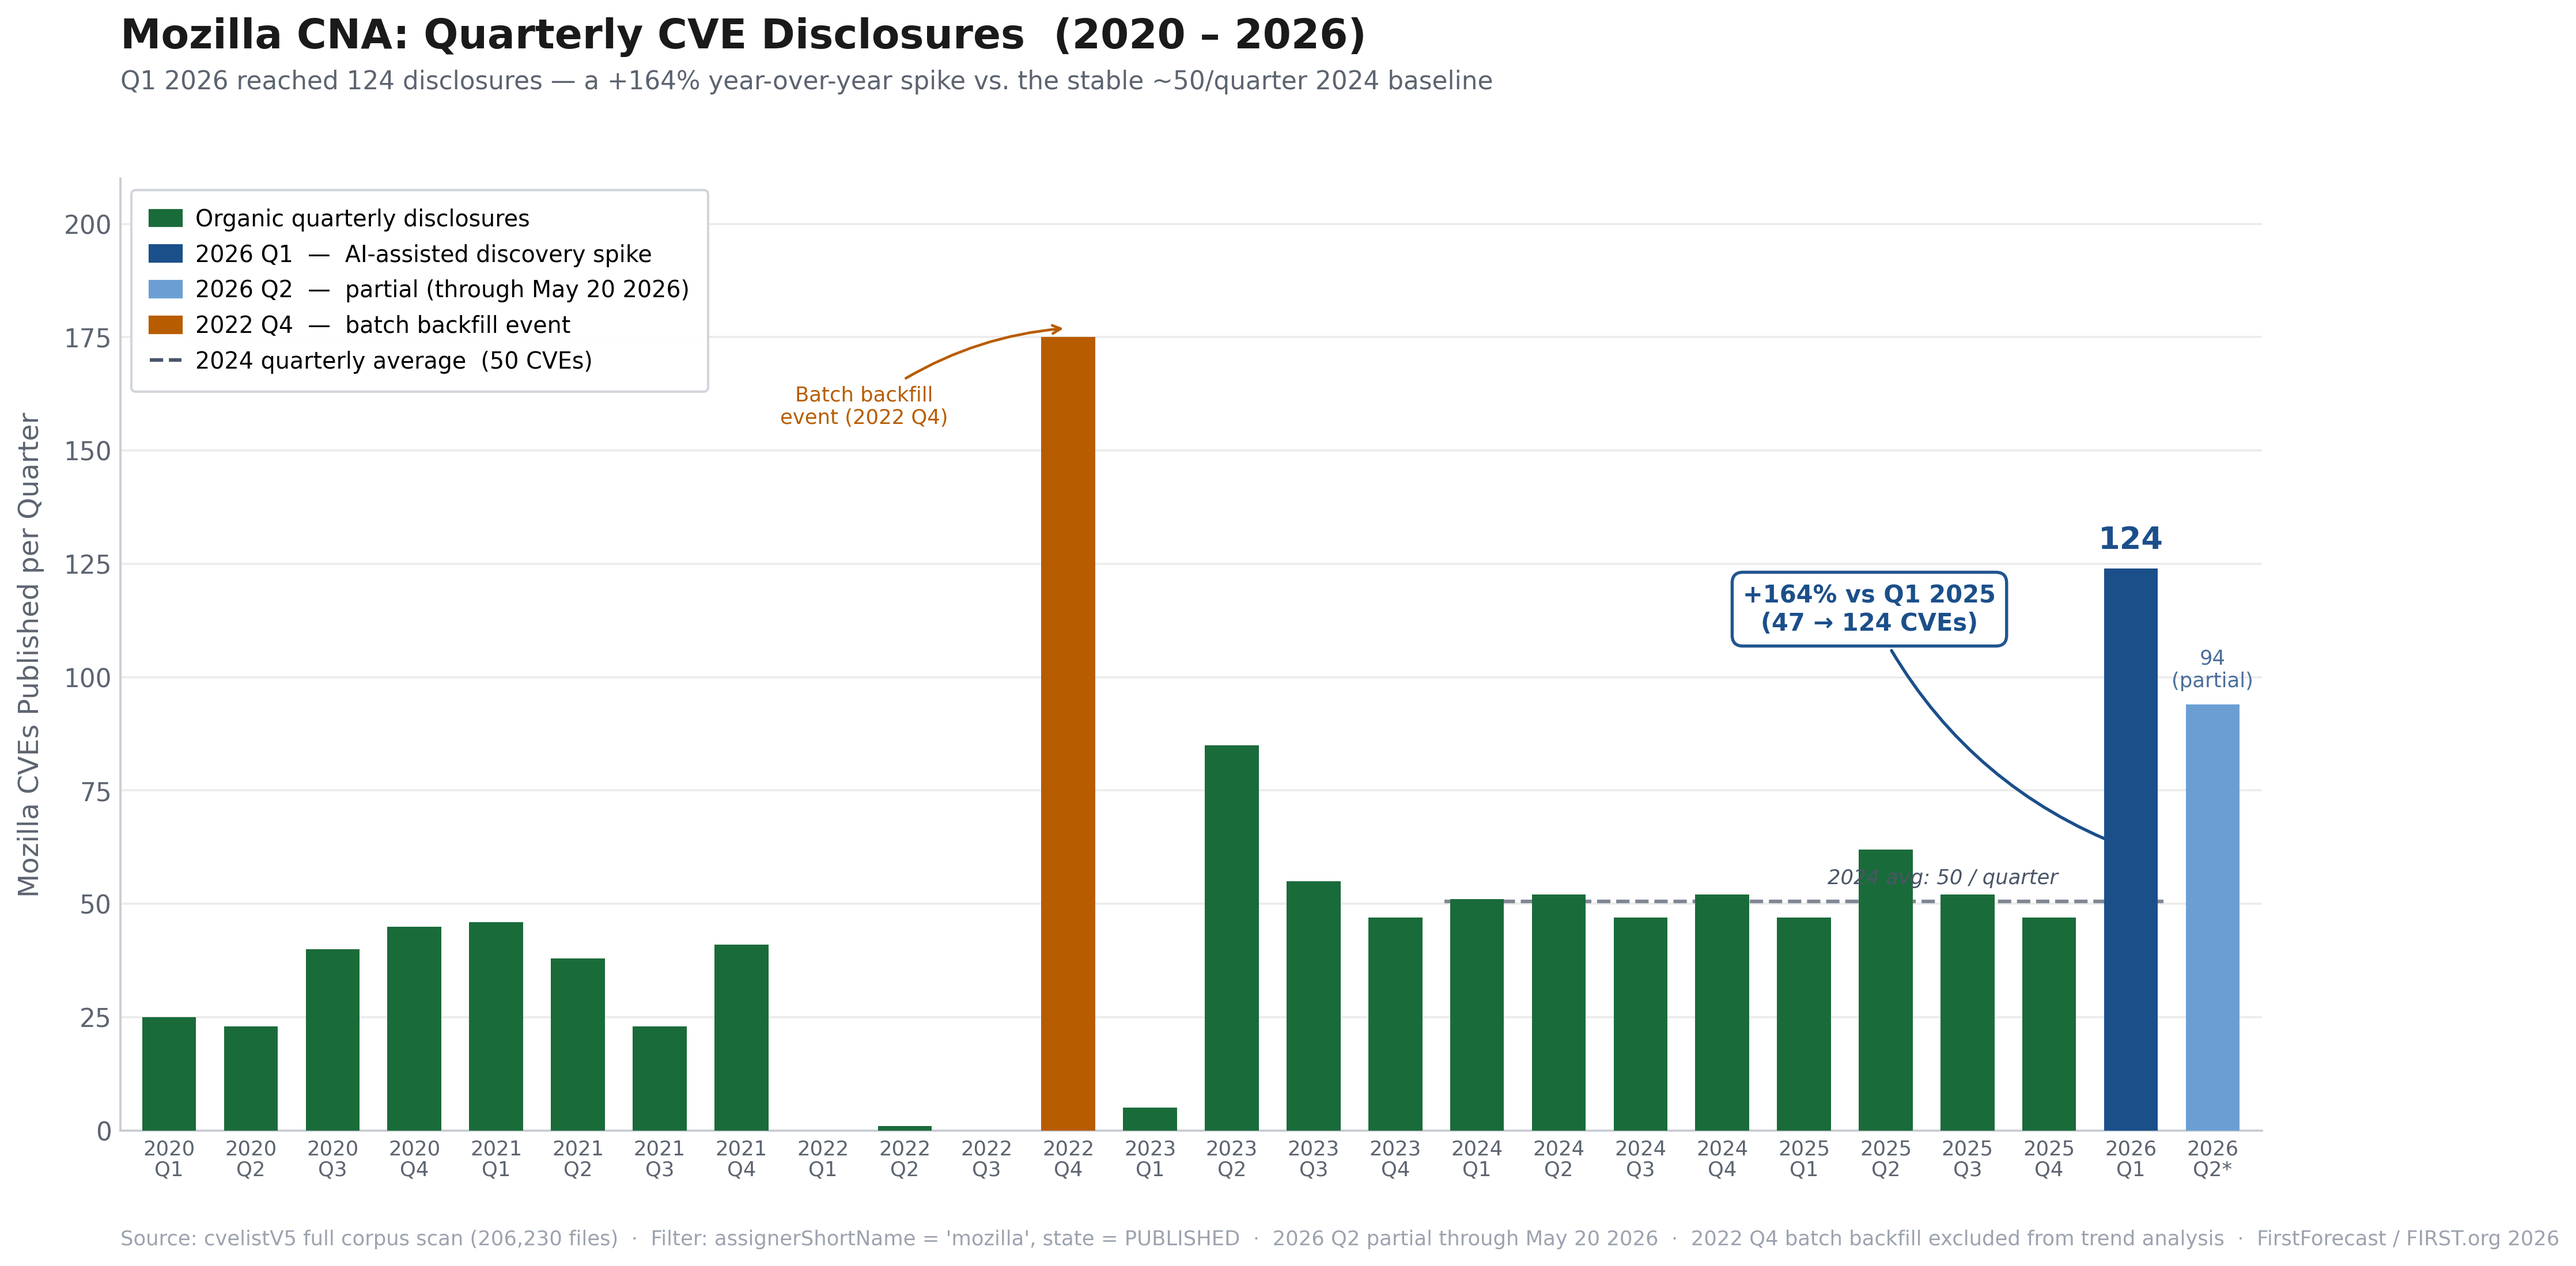
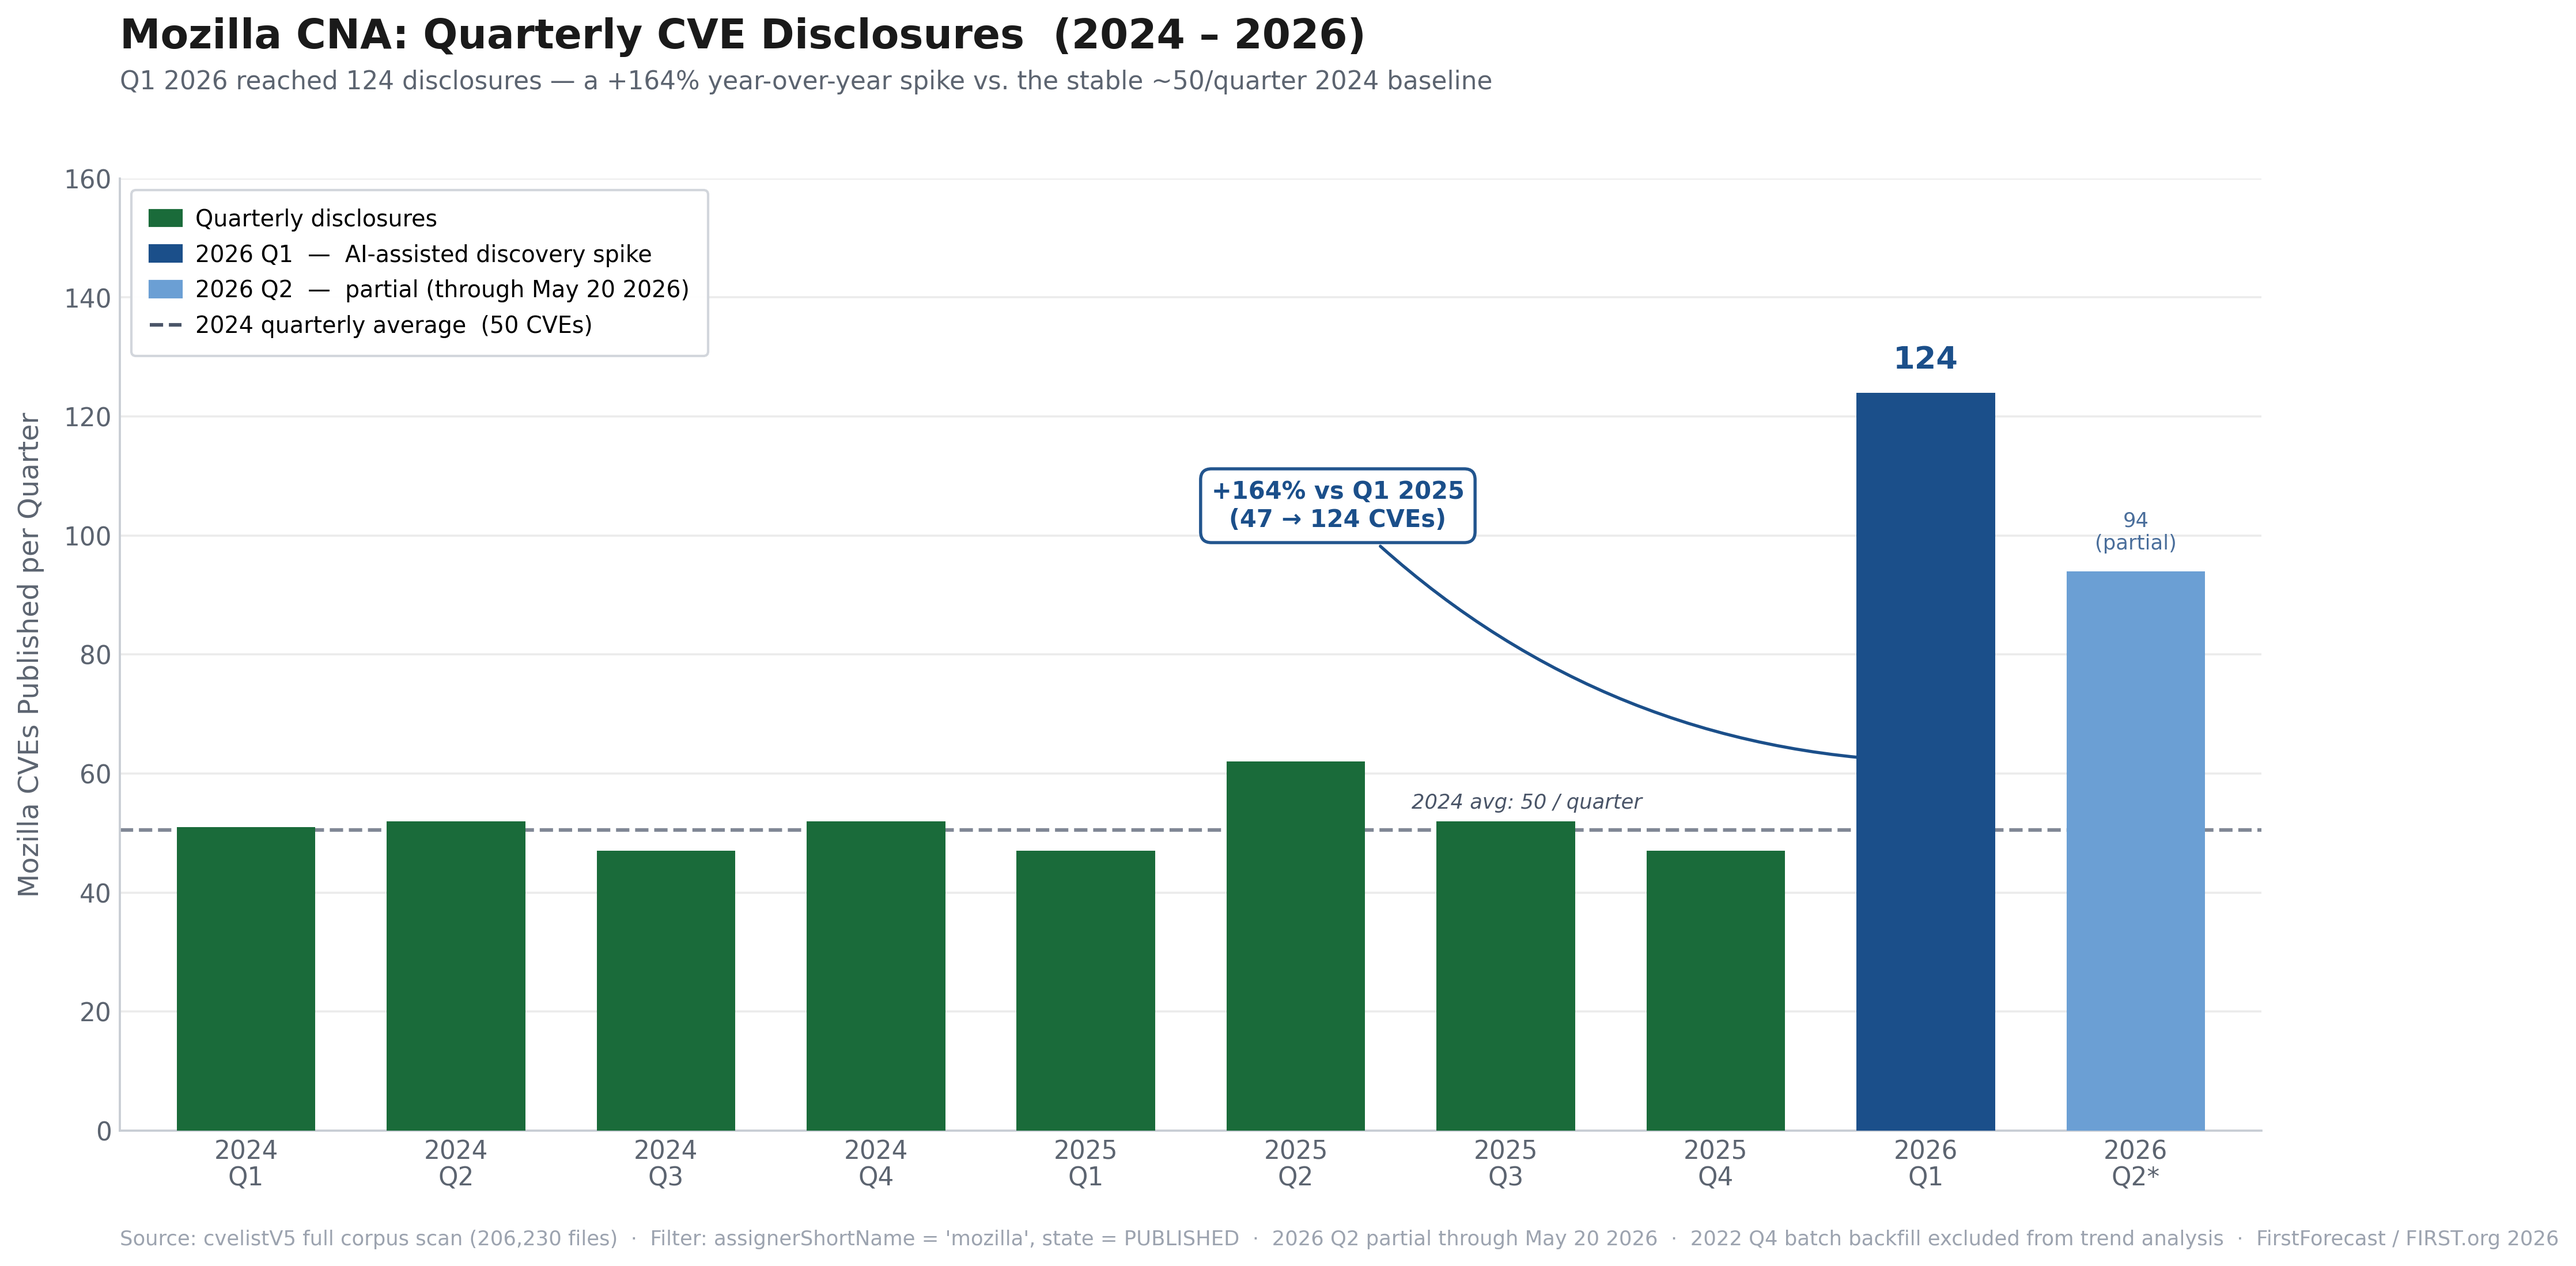
Trim Mozilla chart to 2024-forward; fix title date range
Removes pre-2024 bars and the 2022 Q4 backfill anomaly from the chart
for a tighter, more focused view. Baseline dashed line now spans the
full chart width. Title updated to reflect 2024–2026 window.

diff --git a/generate_blog_visuals.py b/generate_blog_visuals.py
@@ -546,34 +546,24 @@ def chart_mozilla_cna_spike() -> None:
 
     The blog text cited "141% spike" — corrected to +164%.
     """
-    # Full quarterly counts from cvelistV5 scan
+    # Quarterly counts from cvelistV5 scan — 2024 onwards
     quarters = [
-        "2020\nQ1", "2020\nQ2", "2020\nQ3", "2020\nQ4",
-        "2021\nQ1", "2021\nQ2", "2021\nQ3", "2021\nQ4",
-        "2022\nQ1", "2022\nQ2", "2022\nQ3", "2022\nQ4",
-        "2023\nQ1", "2023\nQ2", "2023\nQ3", "2023\nQ4",
         "2024\nQ1", "2024\nQ2", "2024\nQ3", "2024\nQ4",
         "2025\nQ1", "2025\nQ2", "2025\nQ3", "2025\nQ4",
         "2026\nQ1", "2026\nQ2*",
     ]
     counts = [
-        25, 23, 40, 45,    # 2020
-        46, 38, 23, 41,    # 2021
-         0,  1,  0,175,    # 2022 — Q4 is a batch backfill event
-         5, 85, 55, 47,    # 2023
         51, 52, 47, 52,    # 2024 — stable ~50/quarter baseline
         47, 62, 52, 47,    # 2025
        124, 94,            # 2026 (Q2 partial through May 20)
     ]
 
-    BACKFILL  = {11}   # 2022 Q4 batch backfill
-    SPIKE     = {24}   # 2026 Q1 AI-assisted spike
-    PARTIAL   = {25}   # 2026 Q2 still in progress
+    SPIKE   = {8}   # 2026 Q1 AI-assisted spike
+    PARTIAL = {9}   # 2026 Q2 still in progress
 
     colors = [
-        PAL["amber"] if i in BACKFILL else
-        PAL["navy"]  if i in SPIKE    else
-        "#6B9FD4"    if i in PARTIAL  else   # muted navy for partial quarter
+        PAL["navy"] if i in SPIKE   else
+        "#6B9FD4"   if i in PARTIAL else   # muted navy for partial quarter
         PAL["green"]
         for i in range(len(quarters))
     ]
@@ -587,29 +577,18 @@ def chart_mozilla_cna_spike() -> None:
     x = np.arange(len(quarters))
     bars = ax.bar(x, counts, color=colors, width=0.66, zorder=3, linewidth=0)
 
-    # 2024 baseline reference line (over the 2024–2026 range only)
-    ax.plot([x[16] - 0.4, x[24] + 0.4], [baseline_2024, baseline_2024],
-            color=PAL["slate"], linewidth=1.5, linestyle="--", zorder=2, alpha=0.7)
-    ax.text(x[22] - 0.3, baseline_2024 + 3,
+    # 2024 baseline reference line — full width
+    ax.axhline(baseline_2024, color=PAL["slate"], linewidth=1.5,
+               linestyle="--", zorder=2, alpha=0.7)
+    ax.text(x[6] + 0.1, baseline_2024 + 3,
             f"2024 avg: {baseline_2024:.0f} / quarter",
             ha="center", va="bottom", fontsize=8.5,
             color=PAL["slate"], style="italic")
 
-    # 2022 Q4 backfill annotation
-    bf_i = 11
-    ax.annotate(
-        "Batch backfill\nevent (2022 Q4)",
-        xy=(bf_i, counts[bf_i] + 2),
-        xytext=(bf_i - 2.5, 155),
-        arrowprops=dict(arrowstyle="->", color=PAL["amber"], lw=1.1,
-                        connectionstyle="arc3,rad=-0.15"),
-        fontsize=8.5, color=PAL["amber"], ha="center", va="bottom",
-    )
-
     # 2026 Q1 spike — count label + % annotation
-    sp_i = 24
-    q1_25 = counts[20]   # 47
-    q1_26 = counts[24]   # 124
+    sp_i  = 8
+    q1_25 = counts[4]   # 47
+    q1_26 = counts[8]   # 124
     pct   = (q1_26 - q1_25) / q1_25 * 100   # +164%
     ax.text(sp_i, q1_26 + 3, f"{q1_26}",
             ha="center", va="bottom", fontsize=13,
@@ -617,7 +596,7 @@ def chart_mozilla_cna_spike() -> None:
     ax.annotate(
         f"+{pct:.0f}% vs Q1 2025\n({q1_25} → {q1_26} CVEs)",
         xy=(sp_i, q1_26 / 2),
-        xytext=(sp_i - 3.2, 115),
+        xytext=(sp_i - 2.8, 105),
         arrowprops=dict(arrowstyle="->", color=PAL["navy"], lw=1.3,
                         connectionstyle="arc3,rad=0.2"),
         fontsize=10, fontweight="bold", color=PAL["navy"],
@@ -626,17 +605,16 @@ def chart_mozilla_cna_spike() -> None:
     )
 
     # 2026 Q2 partial label
-    pt_i = 25
+    pt_i = 9
     ax.text(pt_i, counts[pt_i] + 3, f"{counts[pt_i]}\n(partial)",
             ha="center", va="bottom", fontsize=8.5, color="#4A6E9B",
             linespacing=1.2)
 
     # Legend
     handles = [
-        mpatches.Patch(color=PAL["green"],  label="Organic quarterly disclosures"),
-        mpatches.Patch(color=PAL["navy"],   label="2026 Q1  —  AI-assisted discovery spike"),
-        mpatches.Patch(color="#6B9FD4",     label="2026 Q2  —  partial (through May 20 2026)"),
-        mpatches.Patch(color=PAL["amber"],  label="2022 Q4  —  batch backfill event"),
+        mpatches.Patch(color=PAL["green"], label="Quarterly disclosures"),
+        mpatches.Patch(color=PAL["navy"],  label="2026 Q1  —  AI-assisted discovery spike"),
+        mpatches.Patch(color="#6B9FD4",    label="2026 Q2  —  partial (through May 20 2026)"),
         plt.Line2D([0], [0], color=PAL["slate"], linestyle="--", linewidth=1.5,
                    label=f"2024 quarterly average  ({baseline_2024:.0f} CVEs)"),
     ]
@@ -646,16 +624,16 @@ def chart_mozilla_cna_spike() -> None:
 
     # Axes
     ax.set_xticks(x)
-    ax.set_xticklabels(quarters, fontsize=8.5, linespacing=1.1)
+    ax.set_xticklabels(quarters, fontsize=10.5, linespacing=1.1)
     ax.set_ylabel("Mozilla CVEs Published per Quarter",
                   fontsize=11.5, color=PAL["sub"], labelpad=8)
     ax.set_xlim(-0.6, len(quarters) - 0.4)
-    ax.set_ylim(0, 210)
+    ax.set_ylim(0, 160)
     ax.yaxis.set_major_formatter(mticker.FuncFormatter(lambda v, _: f"{v:.0f}"))
     _clean_ax(ax)
 
     _header(fig,
-        "Mozilla CNA: Quarterly CVE Disclosures  (2020 – 2026)",
+        "Mozilla CNA: Quarterly CVE Disclosures  (2024 – 2026)",
         f"Q1 2026 reached {q1_26} disclosures — a +{pct:.0f}% year-over-year spike "
         f"vs. the stable ~{baseline_2024:.0f}/quarter 2024 baseline")
     _footer(fig,
